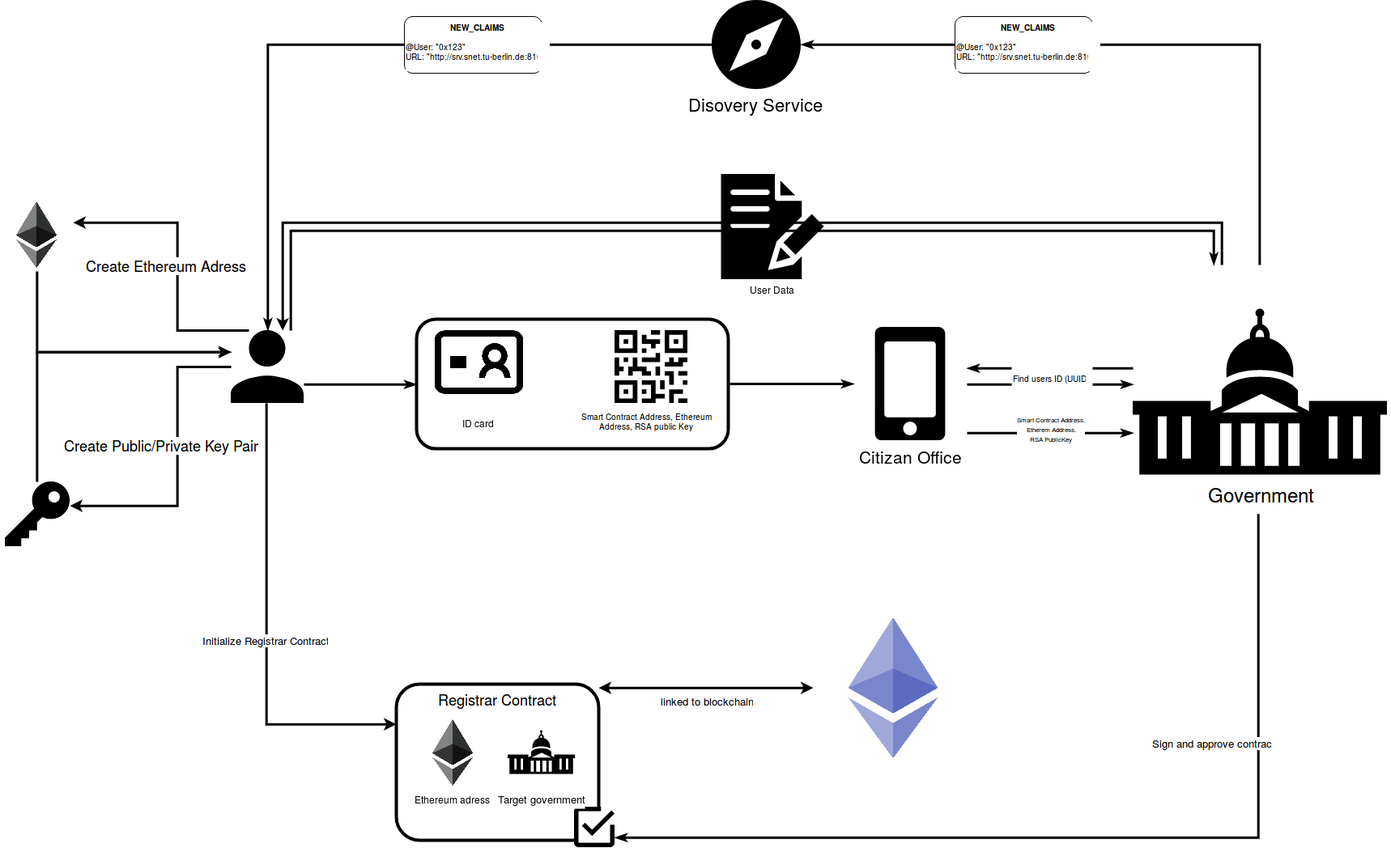
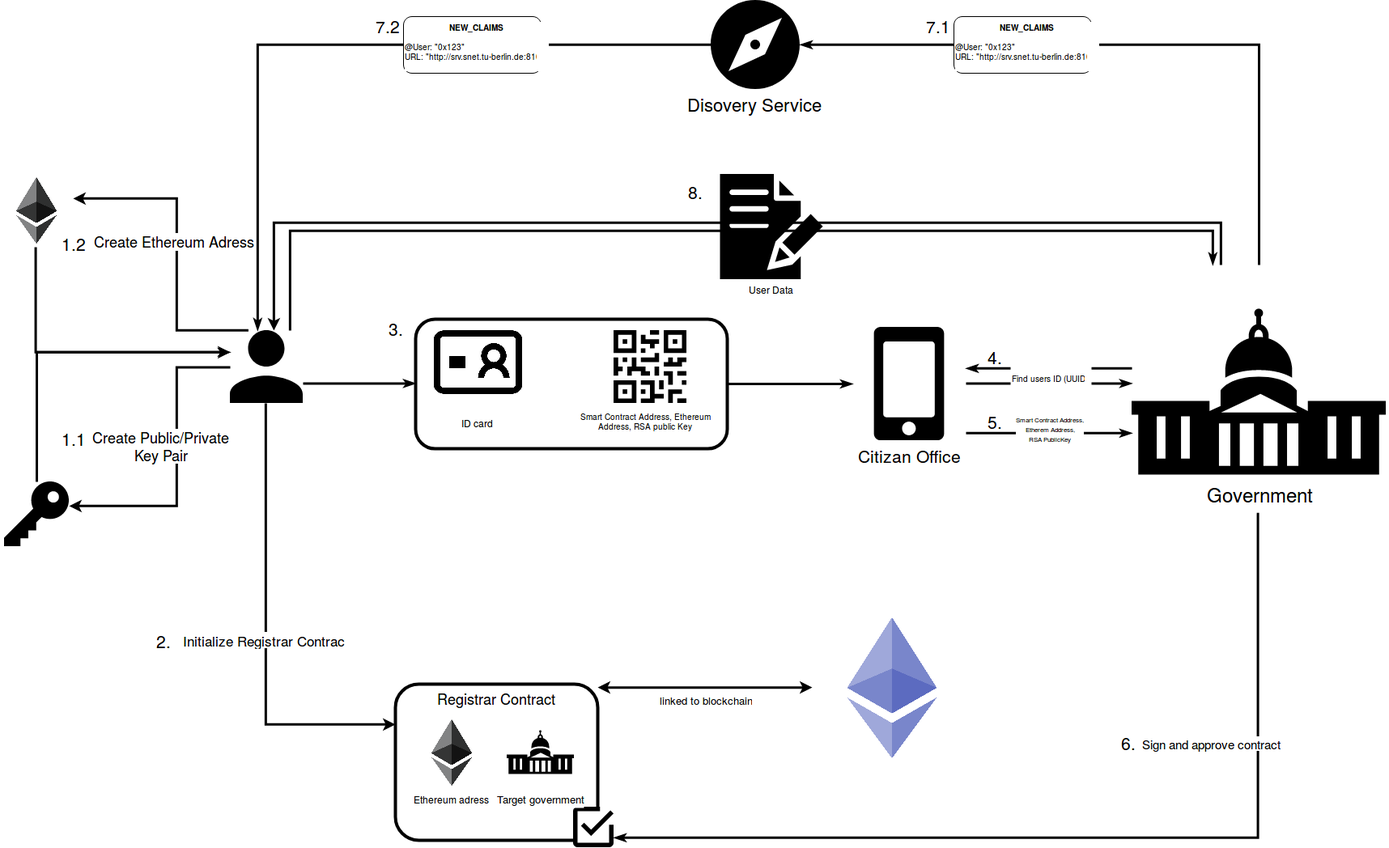
more more more

diff --git a/documentation/paper/content/04_implementation.tex b/documentation/paper/content/04_implementation.tex
@@ -17,12 +17,11 @@ This following sections descriptes the different provider/client applications an
 \subsection{Motivation}
 Since we are dealing with provider which are providing user information data we decided to implement a normal client-server architecture. Here we can use all the advantages TCP is providing us like transport layer encryption with SSL/TLS and the reliability/inorder-delivery TCP comes with. Where we would have to deal with our own encrypt-scheme if we would use UDP with peer-to-peer communication and port discovery, even if peer-to-peer communication seems like the more fitting solution since we are already in the domain of blockchain and decentralized applications. 
 
-Choosing a client-server architecture comes with the drawback that the government service can not notify the client about incoming messages. The communication via the blockchain is not possible since the provider have not permission to write to it. To overcome this challenge we implemented a discovery service where each components registers to on bootstrap. (See section \ref{seciton:discoveryService}).
+Choosing a client-server architecture comes with the drawback that the government service can not notify the client about incoming messages. The communication via the blockchain is not possible since the provider have not permission to write to it. To overcome this challenge we implemented a discovery service where each components registers to on bootstrap. (See section \ref{sec:discoveryService}).
 
 We further decided to design our services RESTful (Representational state transfer). This in mind spring boot\footnote{\url{https://projects.spring.io/spring-boot/}} is a good choice in the Java domain for rapid prototyping. Spring boot also offers good integration for database adapters and spring security\footnote{\url{https://projects.spring.io/spring-security/}} a authentication and authorization framework. 
 
 \subsubsection{Tools and Technologies}
-
 Besides Sprint Boot and Spring Security we further committed us to the following technology stack: 
 
 \begin{itemize}
@@ -41,55 +40,70 @@ Further the following technologies are used for testing:
 \item Mockito\footnote{\url{http://site.mockito.org/}}: Mocking library to make unit and rest test more modular and encapsulated from outstanding components. 
 \end{itemize}
 
-\subsection{Discovery Service}
-\label{sec:discoveryService}
-As mentioned in the previous section the Discovery Service is the result of a client-server architecture in a peer-to-peer environment. But it further serves additional purpose for holding and distributing RSA public keys, discovering domain names, where to find the exposed API and if the requested service is online. 
-
-While all the stored information is public visible no sensitive data is exposed in the Discovery Service. It just provides connection information and serves as a message broker. Each stored entry needs to be signed by the author with the private key bound to his ethereum address. All unauthorized requests are rejected by the service. By ensuring the authenticity of each entry creation or update it is ensured that no service spoofing can happen. Only the holder of the private key bound to his ethereum address can update his connection information.
-
-\subsubsection{Beats}
-Beats are the messages that are routed by the Discovery Service. A \textit{beat} a small package containing an event type describing that kind of message it is and a subject field referencing the location where the new information is to find. Each beat is uniquely identified by the combination of recipient ethereum address and the current beat number (incrementing per beat). 
-
-There are two types of subjects: The URL references a API endpoint where new or updates information are now present. The recipient is requested to request this API endpoint to update his information state. The other kind of subject is a ethereum address: The recipient is requested to query the blockchain for the given address to process the information stored at this address. 
-
-On registration entities start to periodically (each 10 seconds) ping the Discovery Service to wait for new incoming beats. Since the discovery service itself is not a trusted entity, each beat gets verified before processing and it is checked that the signature matches the senders ethereum address.
-
-\subsubsection{PKI}
-
-A Public-Key-Infrastructure (PKI) is an infrastructure to bound identities to public keys. This usually relay on trust in either a Certificate Authority or on other users trusting this public key. 
-
-Since each entity stores also his RSA public key into the discovery service and sign this entry with his EC private key, the trust of the given RSA public key is tightly bound this EC key pair. If the RSA key gets stolen it can be simply replaced in the Discovery Service. If the EC key gets stolen both key pairs need to be regenerated. How we establish trust in the EC key pair is explained in the next section.
-
-\subsection{Register Contract}
+\subsection{Components}
 \begin{figure}
-\includegraphics[width=\textwidth]{impl/RegisterContractImpl.png}
+\includegraphics[width=0.7\textwidth]{impl/ComponentDiagram.png}
 \centering
-\caption{Implementation of the Register Contract flow. Since it was not possible (time limitations) to include the eID verification mechanism, we implemented the in-person verification. Here the newly register user has to go the citizen office to how his ID card to gets his ethereum address, RSA public key and smart contract address verified.}
-\label{fig:registerContractImpl}
+\caption{Overview about the components of an individual service and their exposed endpoints. Left is the provider service providing also a provider API and provider API client. Right the user service implementing the client API client.}
+\label{fig:componentDiagram}
 \end{figure}
 
-To start the register process the user services exposes the unsecured resources "Account" which provides action endpoints for login, logout, register and QR-code retrieval (later more on that). The user service application is planned to run locally on the users host machine. This would secure it from outside access and make the distribution easier. Since we, because of time limitations, didn’t manage to implement a key recovery mechanism there might be an Denial-of-Service attack vector possible where a malicious application running also locally on the users host machine, call periodically the register-endpoint, preventing the user from accessing his information because his keys gets reshuffled every time. Some could think about disabling this register endpoint after successful creating a key pair, but since this is a prototype under developing this endpoint needs to be open and accessible. 
+In figure \ref{fig:componentDiagram} you can see an overview about the components in the provider and user service. All boxes that are drown over the border are representations of exposed endpoints or clients and inside the box are the core components listed.
 
-To register a user in our system he first needs to generate a RSA key-pair and create a new wallet. We need the RSA key-pair to later encrypt sensitive data that is send via the blockchain since the blockchain itself is a public ledger and for everyone readable. The key-pair created by web3j does not provide any confidentiality since the ECDSA (Elliptic Curve Digital Signature Algorithm) can only be used to generate and verify signatures. So the users creates a 4096-bit security strong RSA key pair. So ensure that this key indeed belongs to the EC key-pair we generate a signature, as mentioned previously, over the RSA public key with the EC private key. 
+\subsubsection{Internal components}
+The crypt engine is the main framework for encrypting, decrypting, signing, validating signatures and generating hashes. It provides methods for symmetric and asymmetric encryption. It uses bouncy castles as security provider to generate keys and handle cryptography. To generate elliptic curve signatures it uses the framework provided by web3j. 
 
-The ethereum address itself is a just a representation of the EC public key. To now register the user that is bound to his ethereum address we setup a register contract. This register contract is just a public representation of the unverified user and contains no more information then the users ethereum address and a flag if the user is approved. This flag can only be set by the trusted government. 
+We are using spring data to provide a very easy interface to couchbase, our database storage (section \ref{sec:database}). The keychain is the current session object holding the RSA key-pair, EC key-pair and some other meta information about the current state of the service. This objects gets cleared if the services logs out and restored if the service logs in (section \ref{sec:registerContract}). 
 
-As shown in figure \ref{fig:registerContractImpl} the user then creates a QR-Code (step 3) to encode his ethereum address, address of the smart contract and his public key into it.\footnote{It is not necessary to encode the public key into the QR-code at all since the Discovery Service also stores this information, but we can save an additional request from the government side to discover it by providing it in the register flow directly.} The QR-code generation is done with the help of the Xzing library and exposed via an rest endpoint /account/qr-code. The idea to generate a QR-code is simply that ethereum addresses are quite hard to type and since the user has to go to the citizen office in person he might as well just show is representative QR-code. 
+\subsubsection{User API}
+\label{sec:userAPI}
+The user api provided by a provider service and requested by the user service defines the central entry point of client requests to a provider. The user and the provider API (section \ref{sec:providerAPI} is implemented as a normal Java interface. The provider service is implementing this interface and mapping the defined methods to REST endpoints which then are bounded to a predefined paths. The user service on the other hand, extends this interface in a new interface which then serves as a Feign adapter bound to the same predefined paths. This is really convenient because Feign needs an annotated interface to build an REST client out if it. We only have to bind Feign to the same resources paths the provider is exposing so that they can communicate to each other. 
 
-The android application build for the purpose of scanning the QR-code, generating a signature over the retrieved information and sending it to the government service, needs further know which user is currently trying to be verified to the system. To do so the citizen office types in the user information found on the ID card, for example given name, family name, etc. to then send a authorized requests to the government which then queries its database for a user with the same information and returns his UUID. 
+\subsubsection{Provider API}
+\label{sec:providerAPI}
+The provider API is a unified interface which each provider is offering in form of REST endpoints. Each provider builds also a Feign client (see section \ref{sec:userAPI}) to talk to other providers.  Via this API provider an interact with each other to exchange requests or offering services. Notably is that each request needs to be authenticated via a SignedRequest (see section \ref{sec:ecdsa}) to ensure that only authenticated entities request this API. 
 
-This requests (to the provider services) is backed by a basic authentication mechanism which is not optimal because the password and user name is transmitted in plain text if no transport layer encryption is used. The plan was to change this mechanism since to a more secure scheme like Json-Web-Token (JWT) authentication, but that would require changes in other components and was also out of scope of the core focus of this project. 
+\subsubsection{REST API}
+The rest API is the connection to the frontend. Here the frontend can ask for user resources and claims to display them a web admin or the end user. This requests are backed by a basic authentication mechanism which is not optimal because the password and user name is transmitted in plain text if no transport layer encryption is used. The plan was to change this mechanism since to a more secure scheme like Json-Web-Token (JWT) authentication, but that would require changes in other components and was also out of scope of the core focus of this project. 
 
-With the retrieved UUID the application can then make an POST request to the user resource that tries to get verified and updates the user for his public key, ethereum address and register contract address. This requests needs to be signed by the EC-key of the government to ensure the validity of this request. To do so we implemented a SignedRequest object that can hold a generic payload and the EC Digital-Signature over this payload. This payload but needs to hold the ethereum address of the sender (similar to ethereum transactions). A signature is then build in the following way: 
+\subsubsection{HeartBeatAdapter and EBA}
+Ethereum Blockchain Adapter (EBA) is the entry point to communicate with the blockchain. We defined an interface (EBAInterface) between the blockchain component and the core-logic to develop in a parallel fashion. Relate to the section \ref{sec:eba} where everything related to the blockchain is explained.
+
+The HeartBeatAdapter is the connection to the Discovery Service (section \ref{sec:discoveryService}). A service can register itself to the discovery service, create or subscribe to new beats.
+
+\subsection{Notable methods}
+The follow sections describe problem and challenges that occurred during development.
+
+\subsubsection{Serializing and deserialization of arbitrary objects}
+\label{sec:serialobject}
+
+Serialization of arbitrary objects is a challenge in systems where the order of serialization is imported (e.g. building a signature via hashing over the serialization outcome). A common serialization method is the JSON-String serialization, where an arbitrary object state gets converted into a JSON representation. This can be done by (for example) the Jackson object mapper\footnote{\url{https://github.com/FasterXML/jackson}}. We need, however, define the order  in which each field of the object gets serialized. Serializing all objects into JSON representation allows us to serialize the objects in the same way all the time, no matter if it is a signed request against the blockchain or a response to the frontend. 
+
+The other approach is to use Javas serialization API. Classes that implement "Serializable" will then be converted to a stream which then can be collected to a byte array. Since Java serialization will take care of the serialization order by itself we don’t have to bother with that. 
+
+However, we need to find a unique way to serialize objects since building a hash-based signature via objects must be done always in the same way, no matter on which system the signing or verification of the signature is happening. We decided to use JSON serialization approach (with explicitly defining the order in which properties shell be serialized) since it is language independent, easier to implement and to debug, even if it is not as efficient as raw byte representation. How signatures are build and verified is described in the next section \ref{sec:ecdsa}. 
+
+The implementation of sets in the Java Virtual Machine needed also consideration. Sets are of nature unordered and it depends on the order of object initialization on the heap to define the real order the elements returned in. If you want the same order of object each time, you need to use lists. Building a hash over an object holding sets is obviously a bad idea since the order of attributes may be different from machine to machine, so the hash will be a different.  
+
+Another problem related to serialization was that variables of type "Object" will be converted into a string representation and on deseralization this string will not be converted back in the original type since "String" itself extends "Object". This became a problem on serialization of LocalDateTime values, which were not parsed back into a LocalDateTime. 
+
+To temporary handle the different conversions we implemented a "ValueHolder", a simple class separating LocalDateTime values from generic Object values. By converting explicit into a LocalDateTime the Jackson converter recognizes the string representation and deserialize it into the correct object representation. Future improvements can be made by including the target class of the serialized value as meta information, so that in deseralization the value can be parsed back to its original class. Further the object mapper need to be adapted adequately. 
+
+\subsubsection{ECDSA and SignedRequests}
+\label{sec:ecdsa}
+
+Elliptic Curve Digital Signature Algorithm (ECDSA) in the SECP256k1 configuration is used by Bitcoin and Ethereum to sign transaction to the blockchain. \cite{mayer2016ecdsa} This ensures integrity and authenticity to the sender and the content of the transaction. 
+
+To populate this security properties also between services we use ECDSA also for inter service communication. This is done by generating a so called "signedRequest". This object can hold a generic payload and the EC Digital-Signature over this payload. This payload but needs to include the ethereum address of the sender (similar to ethereum transactions). A signature is then build in the following way: 
 
 \begin{enumerate}
-\item The payload gets converted to a JSON with the help of object mapper. It is imported to denote the order of serialization so that this objects gets serialized in the same way on other systems. 
+\item The payload (holding also the ethereum address of the signer) gets converted to a JSON as defined in section \ref{sec:serialobject}
 \item A SHA-256 hash is build over the given JSON
-\item This hash will then be signed by the ECDSA provided by web3j
+\item This hash will then be signed by the ECDSA and the private key (EC) of the signer
 \item The resulting signature gets appended in the signed request for validation
 \end{enumerate}
 
-The validator on the other then can then:
+\noindent The validator on the other hand can validate the signature by applying the following steps:
 
 \begin{enumerate}
 \item Convert the payload to a JSON with the same object mapper configuration as used for serialization.
@@ -99,10 +113,68 @@ The validator on the other then can then:
 \end{enumerate}
 
 If we would not have include the ethereum address of the sender inside the signed payload an malicious attacker may have exchanged it against a valid signature address. 
+To validate and build signatures over Java objects we are using the Jackson object mapper module \lstinline{jackson-datatype-jsr310} in version \lstinline{2.8.10}. This module is further configuration to write time values as a time stamp in the ISO-8601 format. 
 
-The government then uses the information about the user to update the register contract to set the approval flag to true. So that every party in the system observing the blockchain can verify that the user holding the private key for the ethereum address is indeed verified by the government. 
+\subsection{Discovery Service}
+\label{sec:discoveryService}
+As mentioned in the previous section the Discovery Service is the result of a client-server architecture in a peer-to-peer environment. But it further serves additional purpose for holding and distributing RSA public keys, discovering domain names, where to find the exposed API and if the requested service is online. 
 
-It also creates a new signed Beat with the information "NEW\_CLAIMS" addressed at the users ethereum address to notify the user to request its provider API to retrieve the user claims. 
+While all the stored information is public visible no sensitive data is exposed in the Discovery Service. It just provides connection information and serves as a message broker. Each stored entry needs to be signed by the author with the private key bound to his ethereum address. All unauthorized requests are rejected by the service. By ensuring the authenticity of each entry creation or update it is ensured that no service spoofing can happen. Only the holder of the private key bound to his ethereum address can update his connection information.
 
-The provider API is a unified interface which each provider is offering. Clients can implement it to request them under defined URLs and provider can implement it to offer these endpoints. Notably is that each request needs to be authenticated via a SignedRequest to ensure that only authenticated entities request this API. 
+\subsubsection{Beats}
+\label{sec:beats}
+Beats are the messages that are routed by the Discovery Service. A \textit{beat} a small package containing an event type describing that kind of message it is and a subject field referencing the location where the new information is to find. Each beat is uniquely identified by the combination of recipient ethereum address and the current beat number (incrementing per beat). 
 
+There are two types of subjects: The URL references a API endpoint where new or updates information are now present. The recipient is requested to request this API endpoint to update his information state. The other kind of subject is a ethereum address: The recipient is requested to query the blockchain for the given address to process the information stored at this address. 
+
+On registration entities start to periodically (each 10 seconds) ping the Discovery Service to wait for new incoming beats. Since the discovery service itself is not a trusted entity, each beat gets verified before processing and it is checked that the signature matches the senders ethereum address.
+
+\subsubsection{PKI}
+\label{sec:pki}
+
+A Public-Key-Infrastructure (PKI) is an infrastructure to bound identities to public keys. This usually relay on trust in either a Certificate Authority or on other users trusting this public key. 
+
+Since each entity stores also his RSA public key into the discovery service and sign this entry with his EC private key, the trust of the given RSA public key is tightly bound this EC key pair. If the RSA key gets stolen it can be simply replaced in the Discovery Service. If the EC key gets stolen both key pairs need to be regenerated. How we establish trust in the EC key pair is explained in the next section.
+
+\subsection{Register Contract}
+\label{sec:registerContract}
+\begin{figure}
+\includegraphics[width=\textwidth]{impl/RegisterContractImpl.png}
+\centering
+\caption{Implementation of the Register Contract flow. Since it was not possible (time limitations) to include the eID verification mechanism, we implemented the in-person verification. Here the newly register user has to go the citizen office to how his ID card to gets his ethereum address, RSA public key and smart contract address verified.}
+\label{fig:registerContractImpl}
+\end{figure}
+
+To start the register process the user services exposes the unsecured resources "Account" which provides action endpoints for login, logout, register and QR-code retrieval (later more on that), where the web client can make a HTTP-POST call to "account/register" with a newly set password.
+This call will trigger three main actions:
+
+\begin{enumerate}
+\item Creating a 4096-bit security RSA key pair
+\item Creating a new wallet containing EC-Key Pair 
+\item Setting up the register contract 
+\end{enumerate}
+
+\subsubsection{Creating RSA and EC key pairs}
+We need the RSA key-pair to later encrypt sensitive data that is send via the blockchain since the blockchain itself is a public ledger and for everyone readable. The key-pair created by web3j does not provide any confidentiality since the ECDSA (Elliptic Curve Digital Signature Algorithm) can only be used to generate and verify signatures (see section \ref{sec:ecdsa}). So the users creates a 4096-bit strong RSA key pair (step 1.1). So ensure that this key indeed belongs to the newly generated EC key-pair (step 1.2) we generate a signature, as mentioned previously (section \ref{sec:pki}), over the RSA public key with the EC private key and publish this information to the discovery service.
+
+We further also save our keys, password based symmetric encrypted, to our data directory under \lstinline|{$USER.HOME}./ethereum/blockchain-identity/|\footnote{The "./ethereum" directory is the default directory to save all ethereum related files.}. If the user later logs out, we can simply remove the current RSA and EC keys from memory and if the user logs in again, providing his password, we can decrypt the wallet files and read the RSA and EC keys back in memory. 
+
+The user service application is planned to run locally on the users host machine. This would secure it from outside access. Since we, because of time limitations, didn’t manage to implement a key recovery mechanism there might be an Denial-of-Service attack vector possible where a malicious application running also locally on the users host machine, call periodically the register-endpoint, preventing the user from accessing his information because his keys gets reshuffled every time. Some could think about disabling this register endpoint after successful creating a key pair, but since this is a prototype under developing this endpoint needs to be open and accessible. 
+
+\subsubsection{Deploying the register contract}
+The ethereum address itself is a just a representation of the EC public key. To now register the user that is bound to his ethereum address we setup a register contract (step 2.). This register contract is just a public representation of the unverified user and contains no more information then the users ethereum address and a flag if the user is approved. This flag can only be set by the trusted government. 
+
+\subsubsection{Verifying the user}
+As shown in figure \ref{fig:registerContractImpl} the user then creates a QR-Code (step 3.) to encode his ethereum address, address of the smart contract and his public key into it.\footnote{It is not necessary to encode the public key into the QR-code at all since the Discovery Service also stores this information, but we can save an additional request from the government side to discover it by providing it in the register flow directly.} The QR-code generation is done with the help of the Xzing library and exposed via an rest endpoint "/account/qr-code". The idea to generate a QR-code is simply that ethereum addresses are quite hard to type and since the user has to go to the citizen office in person he might as well just show is representative QR-code. 
+
+The citizen office verifies that the user is indeed who he claims to be with the use of the provided ID card. The android application build for the purpose of scanning the QR-code, generating a signature over the retrieved information and sending it to the government service, needs further know which user is currently trying to be verified to the system. To do so the citizen office types in the user information found on the ID card, for example given name, family name, etc. to then send a authorized requests to the government which then queries its database for a user with the same information and returns his UUID (step 4.). 
+
+With the retrieved UUID the application can then make a signed POST request to the user resource that tries to get verified and updates the user for his public key, ethereum address and register contract address (step 5.).
+
+\subsubsection{Finalize user registration}
+The government then uses the information about the user to update the register contract to set the approval flag to true (step 6.). So that every party in the system observing the blockchain can verify that the user holding the private key for the ethereum address is indeed verified by the government. If each provider checks that he is only communicating with verified users we are preventing sibyl attacks in the most effective way possible. There would be no need to use CAPTURES since only verified users are able to interact with the system. 
+
+It also creates a new signed beat (section \ref{sec:beats}, step 7.1 and 7.2) with the information "NEW\_CLAIMS" addressed at the users ethereum address to notify the user to request its provider API (section \ref{sec:providerAPI} to retrieve the claims stored at the government about him (step 8.). 
+
+Since a new user is now verified in the system other provider shell also send the user their claims about him. That point was really difficult to implement and was left open for further work since there are open unanswered questions: How do provider assign the new ethereum address of the newly registered user to any user of their system (you can not broadcast any user claims over the network because of privacy reasons)? How to ensure that provider send all their claims (since they are not trusted they might be malicious)? 
+In the end we said that the user has to manually notify provider about his presents in the system.
